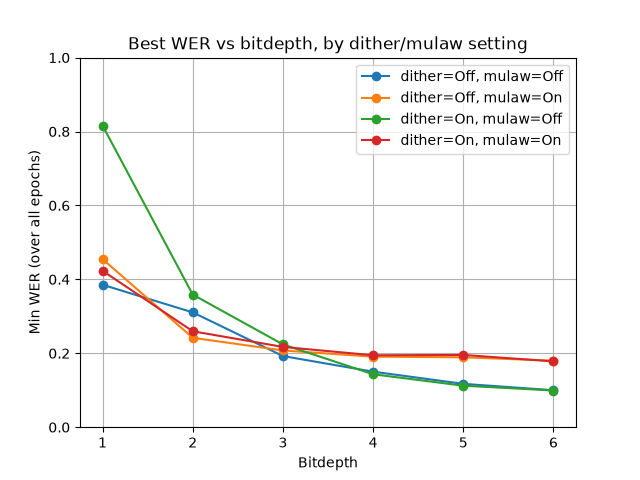
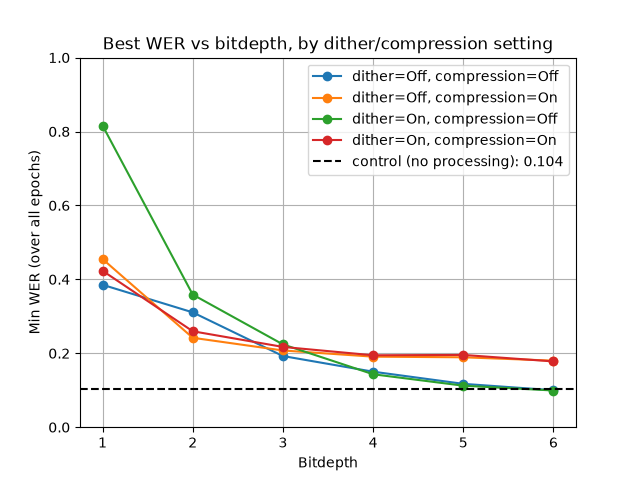
Add no-processing control to sweep and plot it as a reference line
run_all.py now runs the clean-audio control (train.py --no-quant)
alongside the bitdepth x dither x compression sweep by default, with
--no-control/--no-sweep to run either independently.

plot_sweep.py plots the control's min WER as a dashed reference line
and labels mulaw as "compression" in the legend.

diff --git a/run_all.py b/run_all.py
@@ -1,12 +1,16 @@
 """
 run_all.py -- Run train.py across the evaluation sweep: bitdepth x dither
-on/off x mu-law compression on/off (6 x 2 x 2 = 24 models by default).
+on/off x mu-law compression on/off (6 x 2 x 2 = 24 models by default), plus
+a no-processing control (clean audio straight through the ASR, no
+quantization) that the sweep plot compares against as a dashed reference line.
 
 Usage:
-    python run_all.py                                # full 24-point sweep
+    python run_all.py                                # control + full 24-point sweep
     python run_all.py --bitdepths 3 5                 # restrict bitdepths
     python run_all.py --dither on --mulaw off          # restrict to one dither/mulaw combo
     python run_all.py --bitdepths 3 --dither on off --mulaw on off
+    python run_all.py --no-sweep                       # control only, skip the sweep
+    python run_all.py --no-control                     # sweep only, skip the control
 """
 
 import argparse
@@ -39,6 +43,17 @@ def run(bitdepth: int, dither: bool, mulaw: bool):
               f"code {result.returncode} -- stopping.")
         sys.exit(result.returncode)
 
+def run_control():
+    print(f"\n{'=' * 60}")
+    print("Running train.py  --no-quant   (control, no processing)")
+    print(f"{'=' * 60}\n")
+    cmd = [sys.executable, str(TRAIN), "--no-quant"]
+    result = subprocess.run(cmd, cwd=str(HERE))
+    if result.returncode != 0:
+        print(f"\n[run_all] train.py (control) exited with "
+              f"code {result.returncode} -- stopping.")
+        sys.exit(result.returncode)
+
 if __name__ == "__main__":
     parser = argparse.ArgumentParser()
     parser.add_argument(
@@ -54,16 +69,28 @@ if __name__ == "__main__":
         "--mulaw", nargs="+", choices=["on", "off"], default=["on", "off"],
         help="Mu-law companding settings to sweep. Default: on off",
     )
+    parser.add_argument(
+        "--control", action=argparse.BooleanOptionalAction, default=True,
+        help="Run the no-processing control (clean audio, train.py --no-quant). Default: on",
+    )
+    parser.add_argument(
+        "--sweep", action=argparse.BooleanOptionalAction, default=True,
+        help="Run the bitdepth x dither x mulaw sweep. Default: on",
+    )
     args = parser.parse_args()
 
-    dither_settings = [ON_OFF[d] for d in args.dither]
-    mulaw_settings  = [ON_OFF[m] for m in args.mulaw]
+    if args.control:
+        run_control()
 
-    combos = list(itertools.product(args.bitdepths, dither_settings, mulaw_settings))
-    print(f"[run_all] Sweeping {len(combos)} run(s).")
+    if args.sweep:
+        dither_settings = [ON_OFF[d] for d in args.dither]
+        mulaw_settings  = [ON_OFF[m] for m in args.mulaw]
 
-    for bd, dither, mulaw in combos:
-        run(bd, dither, mulaw)
+        combos = list(itertools.product(args.bitdepths, dither_settings, mulaw_settings))
+        print(f"[run_all] Sweeping {len(combos)} run(s).")
+
+        for bd, dither, mulaw in combos:
+            run(bd, dither, mulaw)
 
     print("\n[run_all] All done.")
 

diff --git a/plot_sweep.py b/plot_sweep.py
@@ -40,22 +40,35 @@ def run(results_dir: Path) -> Path:
             continue
         series[(dither, mulaw)].append((bitdepth, min(wers)))
 
-    if not series:
+    control_csv = results_dir / "clean" / "wer_cer_vs_epoch.csv"
+    control_min_wer = None
+    if control_csv.exists():
+        with open(control_csv, newline="") as f:
+            control_wers = [float(row["wer"]) for row in csv.DictReader(f)]
+        if control_wers:
+            control_min_wer = min(control_wers)
+
+    if not series and control_min_wer is None:
         print(f"No run results found under {results_dir} -- skipping sweep plot.")
         return None
 
-    print(f"\n{'dither':>8}  {'mulaw':>8}  {'bitdepth':>8}  {'min WER':>8}")
+    print(f"\n{'dither':>8}  {'compression':>11}  {'bitdepth':>8}  {'min WER':>8}")
     plt.figure()
     for (dither, mulaw), points in sorted(series.items()):
         points.sort()
         bitdepths, min_wers = zip(*points)
         for bd, w in points:
-            print(f"{dither:>8}  {mulaw:>8}  {bd:>8}  {w:>8.4f}")
-        plt.plot(bitdepths, min_wers, marker="o", label=f"dither={dither}, mulaw={mulaw}")
+            print(f"{dither:>8}  {mulaw:>11}  {bd:>8}  {w:>8.4f}")
+        plt.plot(bitdepths, min_wers, marker="o", label=f"dither={dither}, compression={mulaw}")
+
+    if control_min_wer is not None:
+        print(f"{'-':>8}  {'-':>11}  {'control':>8}  {control_min_wer:>8.4f}")
+        plt.axhline(control_min_wer, linestyle="--", color="black",
+                    label=f"control (no processing): {control_min_wer:.3f}")
 
     plt.xlabel("Bitdepth")
     plt.ylabel("Min WER (over all epochs)")
-    plt.title("Best WER vs bitdepth, by dither/mulaw setting")
+    plt.title("Best WER vs bitdepth, by dither/compression setting")
     plt.ylim(0, 1)
     plt.legend()
     plt.grid(True)
